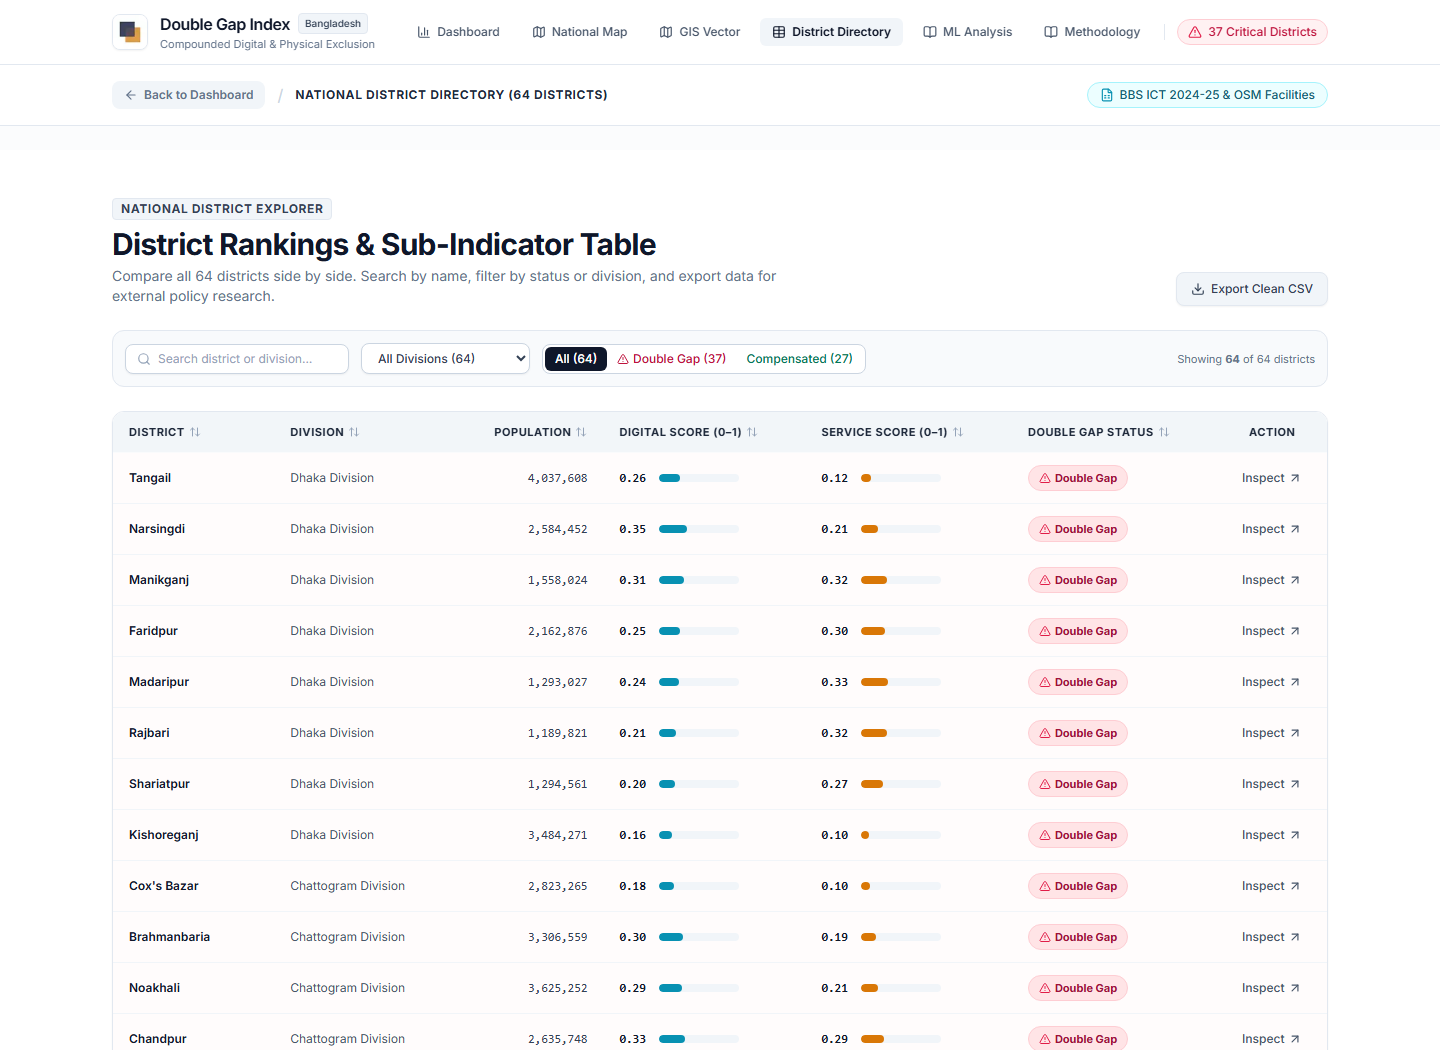
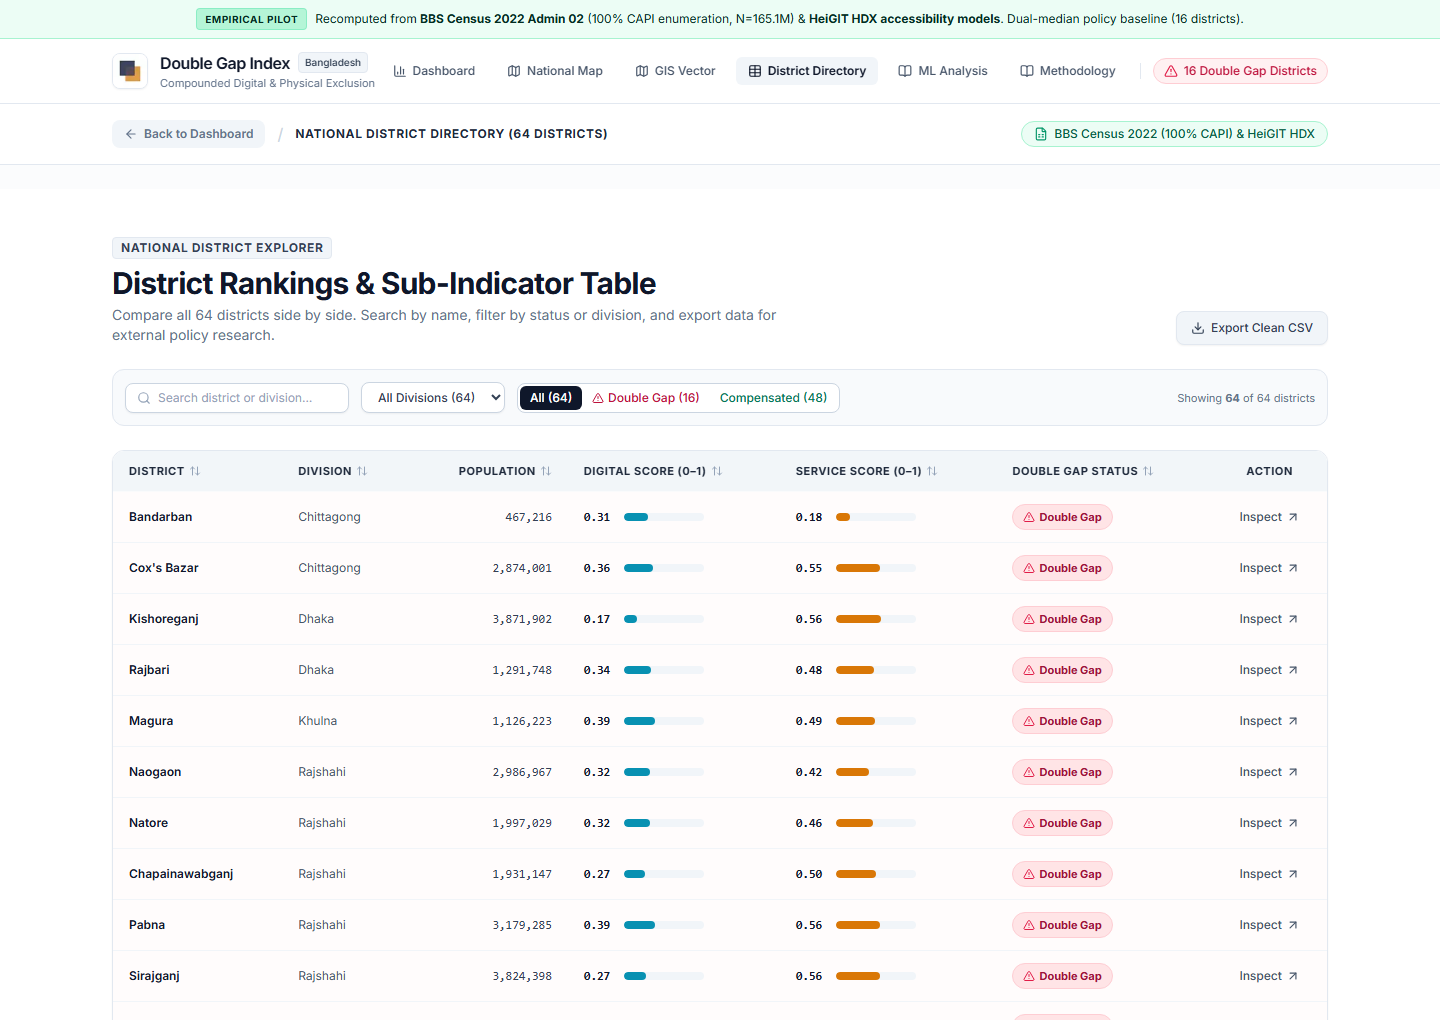
docs: refresh all README and docs screenshots with authentic empirical data

diff --git a/components/ChoroplethMap.tsx b/components/ChoroplethMap.tsx
@@ -456,7 +456,7 @@ export default function ChoroplethMap({ districts }: ChoroplethMapProps) {
               </div>
 
               <div className="text-slate-400 text-[11px]">
-                Threshold: &lt; 0.40 on both axes
+                Dual-Median Cutoffs: DAS &lt; 0.40, SAS &lt; 0.58
               </div>
             </div>
           </div>
@@ -531,7 +531,7 @@ export default function ChoroplethMap({ districts }: ChoroplethMapProps) {
                           : "N/A"}
                       </div>
                       <div className="text-[10px] text-amber-700 mt-1">
-                        Health/100k: {activeDistrict.service_breakdown.healthcare_per_capita ?? "N/A"}
+                        Hospital 30m: {activeDistrict.service_breakdown.hospital_access_pct ?? "N/A"}%
                       </div>
                     </div>
                   </div>
@@ -539,31 +539,35 @@ export default function ChoroplethMap({ districts }: ChoroplethMapProps) {
                   {/* Key Indicators Snapshot */}
                   <div className="space-y-2 text-xs border-t border-slate-100 pt-3">
                     <div className="flex justify-between py-1 border-b border-slate-50">
-                      <span className="text-slate-500">Smartphone Ownership:</span>
+                      <span className="text-slate-500">Mobile Phone (15+):</span>
                       <span className="font-medium text-slate-800">
-                        {activeDistrict.digital_breakdown.smartphone_ownership_pct !== null
-                          ? `${activeDistrict.digital_breakdown.smartphone_ownership_pct}%`
-                          : "Data unavailable"}
+                        {activeDistrict.digital_breakdown.mobile_ownership_pct !== null && activeDistrict.digital_breakdown.mobile_ownership_pct !== undefined
+                          ? `${activeDistrict.digital_breakdown.mobile_ownership_pct}%`
+                          : "N/A"}
                       </span>
                     </div>
                     <div className="flex justify-between py-1 border-b border-slate-50">
-                      <span className="text-slate-500">Digital Skills:</span>
+                      <span className="text-slate-500">Mobile Banking (15+):</span>
                       <span className="font-medium text-slate-800">
-                        {activeDistrict.digital_breakdown.digital_skills_pct !== null
-                          ? `${activeDistrict.digital_breakdown.digital_skills_pct}%`
-                          : <span className="text-slate-400 italic">Data unavailable</span>}
+                        {activeDistrict.digital_breakdown.mobile_banking_pct !== null && activeDistrict.digital_breakdown.mobile_banking_pct !== undefined
+                          ? `${activeDistrict.digital_breakdown.mobile_banking_pct}%`
+                          : "N/A"}
                       </span>
                     </div>
                     <div className="flex justify-between py-1 border-b border-slate-50">
-                      <span className="text-slate-500">Education Density:</span>
+                      <span className="text-slate-500">Hospital Access (30m):</span>
                       <span className="font-medium text-slate-800">
-                        {activeDistrict.service_breakdown.education_per_capita ?? "N/A"} / 100k
+                        {activeDistrict.service_breakdown.hospital_access_pct !== null && activeDistrict.service_breakdown.hospital_access_pct !== undefined
+                          ? `${activeDistrict.service_breakdown.hospital_access_pct}%`
+                          : "N/A"}
                       </span>
                     </div>
                     <div className="flex justify-between py-1">
-                      <span className="text-slate-500">Transit Points:</span>
+                      <span className="text-slate-500">Grid Electricity:</span>
                       <span className="font-medium text-slate-800">
-                        {activeDistrict.service_breakdown.transit_per_capita ?? "N/A"} / 100k
+                        {activeDistrict.service_breakdown.electricity_access_pct !== null && activeDistrict.service_breakdown.electricity_access_pct !== undefined
+                          ? `${activeDistrict.service_breakdown.electricity_access_pct}%`
+                          : "N/A"}
                       </span>
                     </div>
                   </div>

diff --git a/components/QuadrantChart.tsx b/components/QuadrantChart.tsx
@@ -242,7 +242,7 @@ export default function QuadrantChart({
                   fontSize="12"
                   fontWeight="700"
                 >
-                  Digital Access Score → (Internet, Smartphone, Skills, Gender Parity)
+                  Digital Access Score → (BBS Census 2022: Internet, Mobile, MFS)
                 </text>
                 <text
                   x={-height / 2}
@@ -253,7 +253,7 @@ export default function QuadrantChart({
                   fontSize="12"
                   fontWeight="700"
                 >
-                  Service Access Score → (Healthcare, Education, Transit per Capita)
+                  Service Access Score → (HeiGIT / BBS: Hospitals, Schools, Grid Power)
                 </text>
 
                 {/* Axis Tick Marks */}
@@ -348,31 +348,6 @@ export default function QuadrantChart({
                     </g>
                   );
                 })}
-
-                {/* Embedded SVG Watermark to ensure scatter screenshots carry demo status */}
-                <g id="quadrant-svg-watermark" className="pointer-events-none select-none">
-                  <rect
-                    x={width - padding.right - 195}
-                    y={height - padding.bottom + 26}
-                    width="195"
-                    height="20"
-                    rx="4"
-                    fill="#0f172a"
-                    fillOpacity="0.80"
-                  />
-                  <text
-                    x={width - padding.right - 97}
-                    y={height - padding.bottom + 40}
-                    textAnchor="middle"
-                    fill="#f8fafc"
-                    fontSize="9.5"
-                    fontWeight="700"
-                    letterSpacing="0.08em"
-                    fontFamily="monospace"
-                  >
-                    EMPIRICAL PILOT: DUAL-MEDIAN
-                  </text>
-                </g>
               </svg>
             </div>
           </div>
@@ -438,11 +413,11 @@ export default function QuadrantChart({
                       <span className="text-rose-700 font-medium">
                         Facing compounding exclusion. Lacks both digital connectivity and physical public services. High priority for integrated intervention.
                       </span>
-                    ) : hoveredDistrict.digital_access_score! >= 0.40 && hoveredDistrict.service_access_score! < 0.40 ? (
+                    ) : hoveredDistrict.digital_access_score! >= effectiveDigitalThreshold && hoveredDistrict.service_access_score! < effectiveServiceThreshold ? (
                       <span className="text-amber-800">
                         Service exclusion exists, but digital connectivity allows potential remote workarounds (telemedicine, online education).
                       </span>
-                    ) : hoveredDistrict.digital_access_score! < 0.40 && hoveredDistrict.service_access_score! >= 0.40 ? (
+                    ) : hoveredDistrict.digital_access_score! < effectiveDigitalThreshold && hoveredDistrict.service_access_score! >= effectiveServiceThreshold ? (
                       <span className="text-sky-800">
                         Digital exclusion exists, but physical public infrastructure provides an in-person safety net.
                       </span>
@@ -466,7 +441,7 @@ export default function QuadrantChart({
                   <AlertOctagon className="w-8 h-8 mx-auto mb-2 text-slate-300" />
                   <p className="text-xs font-medium text-slate-600">Hover any point on the chart</p>
                   <p className="text-[11px] text-slate-400 mt-1">
-                    Inspect where each district falls relative to the 0.40 double exclusion cutoffs.
+                    Inspect where each district falls relative to dual-median cutoffs (DAS &lt; 0.40, SAS &lt; 0.58).
                   </p>
                 </div>
               )}

diff --git a/components/MLProfiles.tsx b/components/MLProfiles.tsx
@@ -30,7 +30,7 @@ export default function MLProfiles() {
           <div className="mt-4 p-3.5 rounded-xl bg-amber-50/80 border border-amber-200/90 text-amber-900 text-xs flex items-start gap-2.5">
             <Info className="w-4 h-4 text-amber-700 flex-shrink-0 mt-0.5" />
             <div className="leading-relaxed">
-              <strong>Methodological Clarification:</strong> {metadata.exploratory_disclaimer} They describe multivariate structure in the BBS/OSM cross-section to assist multi-sector policy planning, rather than proving econometric causality.
+              <strong>Methodological Clarification:</strong> {metadata.exploratory_disclaimer} They describe multivariate structure in the BBS Census 2022 and HeiGIT accessibility cross-section to assist multi-sector policy planning, rather than proving econometric causality.
             </div>
           </div>
         </div>

diff --git a/app/districts/page.tsx b/app/districts/page.tsx
@@ -31,9 +31,9 @@ export default async function DistrictsDirectoryPage() {
           </div>
 
           <div className="flex items-center gap-2">
-            <span className="inline-flex items-center gap-1.5 px-3 py-1 rounded-full text-xs font-medium bg-cyan-50 border border-cyan-200 text-cyan-800">
-              <FileSpreadsheet className="w-3.5 h-3.5 text-cyan-600" />
-              Modeled Demonstration Baseline & Simulated Facilities
+            <span className="inline-flex items-center gap-1.5 px-3 py-1 rounded-full text-xs font-medium bg-emerald-50 border border-emerald-200 text-emerald-800">
+              <FileSpreadsheet className="w-3.5 h-3.5 text-emerald-600" />
+              BBS Census 2022 (100% CAPI) & HeiGIT HDX
             </span>
           </div>
         </div>

diff --git a/components/DistrictTable.tsx b/components/DistrictTable.tsx
@@ -217,7 +217,7 @@ export default function DistrictTable({ districts }: DistrictTableProps) {
                 }`}
               >
                 <AlertTriangle className="w-3 h-3" />
-                Double Gap (37)
+                Double Gap ({districts.filter((d) => d.double_gap_flag).length})
               </button>
               <button
                 onClick={() => setStatusFilter("resilient")}
@@ -227,7 +227,7 @@ export default function DistrictTable({ districts }: DistrictTableProps) {
                     : "text-emerald-700 hover:bg-emerald-50"
                 }`}
               >
-                Compensated (27)
+                Compensated ({districts.filter((d) => !d.double_gap_flag).length})
               </button>
             </div>
           </div>

diff --git a/app/quadrant/page.tsx b/app/quadrant/page.tsx
@@ -1,0 +1,16 @@
+import { getAllDistricts } from "@/lib/data";
+import QuadrantChart from "@/components/QuadrantChart";
+
+export const metadata = {
+  title: "2x2 Policy Quadrant Matrix | Double Gap Index (DGI)",
+  description: "Interactive scatter plot mapping Digital Access vs Physical Service Access across Bangladesh's 64 districts.",
+};
+
+export default async function QuadrantPage() {
+  const districts = await getAllDistricts();
+  return (
+    <div className="w-full bg-slate-50 min-h-screen py-8">
+      <QuadrantChart districts={districts} />
+    </div>
+  );
+}

diff --git a/components/GisVectorExplorer.tsx b/components/GisVectorExplorer.tsx
@@ -19,7 +19,12 @@ interface GisVectorExplorerProps {
 }
 
 export default function GisVectorExplorer({ districts }: GisVectorExplorerProps) {
-  const [useBlankBasemap, setUseBlankBasemap] = useState(false);
+  const [useBlankBasemap, setUseBlankBasemap] = useState(() => {
+    if (typeof window !== "undefined") {
+      return new URLSearchParams(window.location.search).get("blank") === "true";
+    }
+    return false;
+  });
   const [selectedDistrictId, setSelectedDistrictId] = useState<string>("sherpur");
 
   // Representative districts with coordinates [lng, lat]

diff --git a/app/map/page.tsx b/app/map/page.tsx
@@ -33,7 +33,7 @@ export default async function MapPage() {
           <div className="flex items-center gap-2">
             <span className="inline-flex items-center gap-1.5 px-3 py-1 rounded-full text-xs font-medium bg-rose-50 border border-rose-200 text-rose-700">
               <ShieldAlert className="w-3.5 h-3.5 text-rose-600" />
-              37 Double Gap Districts Identified
+              16 Double Gap Districts Identified
             </span>
             <Link
               href="/gis"

diff --git a/components/Navbar.tsx b/components/Navbar.tsx
@@ -73,7 +73,7 @@ export default function Navbar() {
           {/* Quick Double Gap Indicator Tag */}
           <div className="hidden lg:flex items-center gap-1.5 px-2.5 py-1 rounded-full bg-rose-50 border border-rose-200 text-rose-700 text-xs font-medium">
             <AlertTriangle className="w-3.5 h-3.5 text-rose-600" />
-            <span>37 Critical Districts</span>
+            <span>16 Double Gap Districts</span>
           </div>
         </nav>
       </div>

diff --git a/README.md b/README.md
@@ -59,6 +59,10 @@ The **Double Gap Index (DGI)** addresses a critical policy question for Banglade
 
 By synthesizing district-level data from the **Bangladesh Bureau of Statistics (BBS) Population & Housing Census 2022 (Admin 02 Dataset, 100% CAPI Enumeration across 165.1M individuals)**, travel-time accessibility models from **HeiGIT / Humanitarian Data Exchange (HDX)**, and verified administrative infrastructure registers, DGI isolates the geographic regions that require simultaneous dual-stream public capital co-investment.
 
+<p align="center">
+  <img src="docs/screenshots/hero_dashboard.png" alt="Double Gap Index Platform Dashboard" width="850" style="border-radius: 12px; border: 1px solid #e2e8f0;"/>
+</p>
+
 ---
 
 ## ⚖ The Core Axiom: Two Scores, Never Blended
